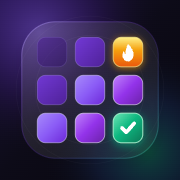
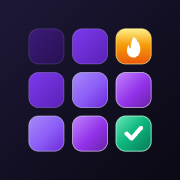
refactor: update app assets and iconography
Replace PWA icons and update cache-busting versioning to v4.

diff --git a/index.html b/index.html
@@ -14,12 +14,12 @@
     <meta name="apple-mobile-web-app-capable" content="yes" />
     <meta name="apple-mobile-web-app-status-bar-style" content="black-translucent" />
     <meta name="apple-mobile-web-app-title" content="Cadence" />
-    <link rel="apple-touch-icon" href="/apple-touch-icon.png?v=2" />
-    <link rel="apple-touch-icon" sizes="180x180" href="/apple-touch-icon.png?v=2" />
-    <link rel="apple-touch-icon" sizes="167x167" href="/apple-touch-icon.png?v=2" />
-    <link rel="apple-touch-icon" sizes="152x152" href="/apple-touch-icon.png?v=2" />
-    <link rel="icon" type="image/png" sizes="192x192" href="/pwa-192x192.png?v=2" />
-    <link rel="icon" type="image/svg+xml" href="/icon.svg?v=2" />
+    <link rel="apple-touch-icon" href="/apple-touch-icon.png?v=4" />
+    <link rel="apple-touch-icon" sizes="180x180" href="/apple-touch-icon.png?v=4" />
+    <link rel="apple-touch-icon" sizes="167x167" href="/apple-touch-icon.png?v=4" />
+    <link rel="apple-touch-icon" sizes="152x152" href="/apple-touch-icon.png?v=4" />
+    <link rel="icon" type="image/png" sizes="192x192" href="/pwa-192x192.png?v=4" />
+    <link rel="icon" type="image/svg+xml" href="/icon.svg?v=4" />
     <link rel="preconnect" href="https://fonts.googleapis.com" />
     <link rel="preconnect" href="https://fonts.gstatic.com" crossorigin />
     <link href="https://fonts.googleapis.com/css2?family=Figtree:wght@400;500;600;700;800&family=JetBrains+Mono:wght@400;500;600&family=Plus+Jakarta+Sans:wght@400;500;600;700;800&display=swap" rel="stylesheet" />

diff --git a/src/screens/Settings.tsx b/src/screens/Settings.tsx
@@ -886,9 +886,9 @@ export const SettingsScreen: React.FC<SettingsScreenProps> = ({
         <div className="flex items-center gap-3.5 pt-0.5">
           <div className="flex flex-col items-center shrink-0">
             <img
-              src="/apple-touch-icon.png?v=2"
+              src="/pwa-512x512.png?v=4"
               alt="Cadence iPhone Home Screen Icon"
-              className="w-14 h-14 rounded-[14px] shadow-md object-cover border border-white/10"
+              className="w-14 h-14 rounded-[14px] shadow-md object-cover"
             />
             <span
               className="text-[10px] font-semibold mt-1 tracking-tight"

diff --git a/dev-dist/sw.js b/dev-dist/sw.js
@@ -81,7 +81,7 @@ define(['./workbox-7e5eb42b'], (function (workbox) { 'use strict';
     "revision": "3ca0b8505b4bec776b69afdba2768812"
   }, {
     "url": "/index.html",
-    "revision": "0.ho05hsp8neg"
+    "revision": "0.ksrndnfuc7g"
   }], {});
   workbox.cleanupOutdatedCaches();
   workbox.registerRoute(new workbox.NavigationRoute(workbox.createHandlerBoundToURL("/index.html"), {

diff --git a/src/components/AppTourModal.tsx b/src/components/AppTourModal.tsx
@@ -215,7 +215,7 @@ export const AppTourModal: React.FC<AppTourModalProps> = ({
               }}
             >
               <img
-                src="/apple-touch-icon.png?v=2"
+                src="/pwa-512x512.png?v=4"
                 alt="Cadence Icon"
                 className="w-12 h-12 rounded-[14px] shadow-md shrink-0 object-cover"
               />

diff --git a/src/App.tsx b/src/App.tsx
@@ -636,7 +636,7 @@ export default function App() {
             className="flex items-center gap-2 text-left"
           >
             <img
-              src="/apple-touch-icon.png?v=2"
+              src="/pwa-512x512.png?v=4"
               alt="Cadence App Icon"
               className="w-6 h-6 rounded-[7px] shadow-xs object-cover"
             />

diff --git a/README.md b/README.md
@@ -1,5 +1,5 @@
 <div align="center">
-  <img src="public/apple-touch-icon.png" alt="Cadence App Icon" width="96" height="96" style="border-radius: 22px;" />
+  <img src="public/pwa-512x512.png" alt="Cadence App Icon" width="96" height="96" style="border-radius: 22px;" />
 
   # Cadence
 
